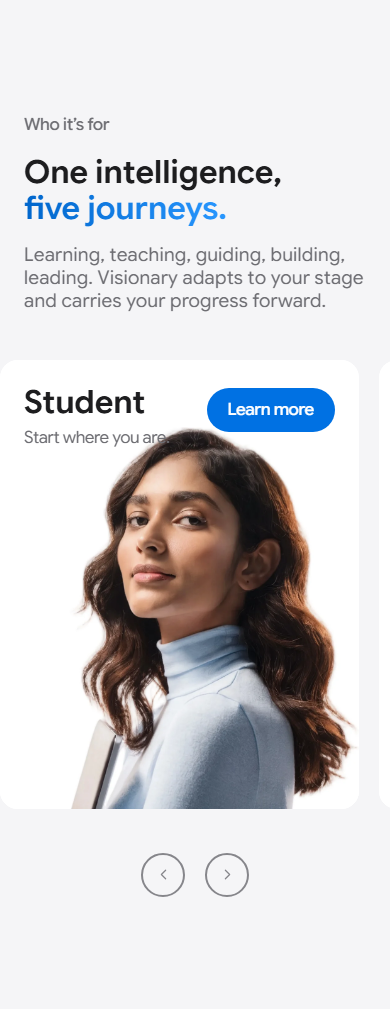
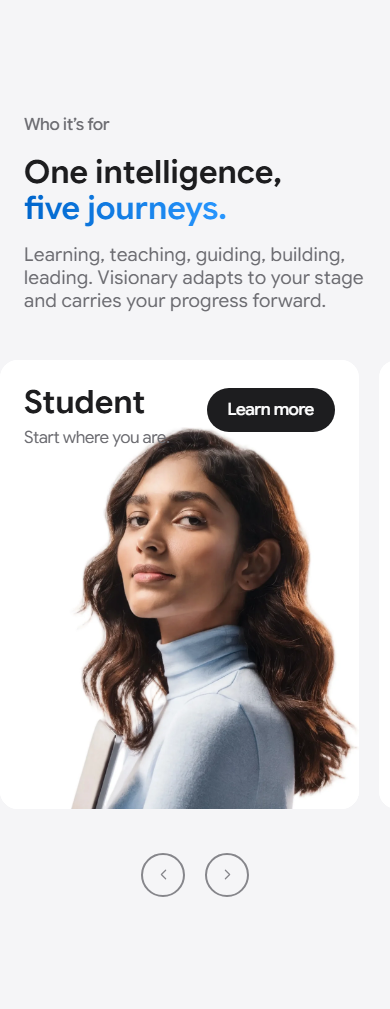
FHE-01 (V10): one flow spine — every chapter shares the same left edge
Founder flow check: the product aligns left in a flow, not randomly.
Measurement found three random left edges — the slider at 24, the
returns at 110, the problem statement at 230. Unified to one 1264px
spine (mx-auto max-w-[1264px] px-6, left 112 at 1440): problem, return,
trust, the explore header, and the Duo slider's first slide all measure
112 (getBoundingClientRect evidence); the slider's next card still
peeks past the spine's right edge.

Also per the font rule and the button system:
- the card name keeps the section tier (56) — the Duo law: the tile's
  name IS the tile's statement; verified computed 56px
- the Learn more pill joins the system's primary colour: ink #1d1d1f,
  hover #272729 — the blue pill was Apple's commerce pill, not our
  button system (our primaries are ink on light grounds)

Verified: quality gate PASS; 871/871 tests after scope refresh; lint
clean.

Changed region(s): [[0.5231, 0.3687, 0.8615, 0.4301]]

diff --git a/visionary-app/frontend/src/components/landing/persona/premium/PremiumExploreSection.jsx b/visionary-app/frontend/src/components/landing/persona/premium/PremiumExploreSection.jsx
@@ -59,7 +59,7 @@ const PremiumExploreCard = React.memo(function PremiumExploreCard({ category, im
           </p>
         </div>
         <span
-          className="mt-1 inline-flex h-11 shrink-0 items-center justify-center rounded-full bg-[#0071e3] px-[21px] text-[17px] font-medium leading-[1.176] tracking-[-0.011em] text-white transition-colors duration-200 hover:bg-[#0077ed] focus-visible:outline-none focus-visible:ring-2 focus-visible:ring-[#0066cc] focus-visible:ring-offset-2 sm:h-9 lg:h-11 lg:text-[18px]"
+          className="mt-1 inline-flex h-11 shrink-0 items-center justify-center rounded-full bg-[#1d1d1f] px-[21px] text-[17px] font-medium leading-[1.176] tracking-[-0.011em] text-white transition-colors duration-200 hover:bg-[#272729] focus-visible:outline-none focus-visible:ring-2 focus-visible:ring-[#0066cc] focus-visible:ring-offset-2 sm:h-9 lg:h-11 lg:text-[18px]"
         >
           Learn more
         </span>
@@ -111,7 +111,7 @@ function PremiumExploreSection({ heading, categories, images, eyebrow, sub, head
     <section ref={ref} data-section="13-explore" className="relative isolate bg-[#f5f5f7] py-16 lg:py-24 [overflow-x:clip] rounded-t-[32px]">
       <ScrollReveal>
         <RevealItem idx={0}>
-          <div className="mx-auto w-full px-6 lg:px-6">
+          <div className="mx-auto w-full max-w-[1264px] px-6">
             {eyebrow && (
               <p className="text-[17px] font-medium" style={{ color: color.slate }}>
                 {eyebrow}
@@ -153,7 +153,7 @@ function PremiumExploreSection({ heading, categories, images, eyebrow, sub, head
               onPointerCancel={onTrackPointerEnd}
               onClickCapture={onTrackClickCapture}
               onDragStart={(e) => e.preventDefault()}
-              className="flex cursor-grab snap-x snap-mandatory gap-5 overflow-x-auto pb-2 pl-6 pr-6 select-none [scrollbar-width:none] active:cursor-grabbing [&::-webkit-scrollbar]:hidden lg:gap-6 lg:scroll-pl-6 lg:pl-6"
+              className="flex cursor-grab snap-x snap-mandatory gap-5 overflow-x-auto pb-2 pl-6 pr-6 select-none [scrollbar-width:none] active:cursor-grabbing [&::-webkit-scrollbar]:hidden lg:gap-6 lg:scroll-pl-[max(24px,calc((100vw-1264px)/2+24px))] lg:pl-[max(24px,calc((100vw-1264px)/2+24px))]"
             >
               {categories.map((c, index) => (
                 <PremiumExploreCard key={c.slug} category={c} image={images[index]} />

diff --git a/visionary-app/frontend/src/pages/Landing.jsx b/visionary-app/frontend/src/pages/Landing.jsx
@@ -232,7 +232,7 @@ function LandingProblemSection() {
     <section ref={ref} data-section="02-problem" className="relative z-10 overflow-hidden bg-[#f5f5f7]" style={{ fontFamily: fontStack }}>
       <Reveal visible={visible}>
         <p className="sr-only">Stories from a student and a professional about the moment understanding breaks down.</p>
-        <div className="public-editorial-frame mx-auto">
+        <div className="mx-auto w-full max-w-[1264px] px-6">
           <p className="text-[17px] font-medium" style={{ color: BRAND.graphite }}>Why Visionary exists</p>
           <h2 key={`h-${index}`} data-type="section" className="hero-fade-up mt-[var(--gap-eyebrow-title-display)] text-balance font-semibold" style={{ color: BRAND.ink, maxWidth: "980px" }}>
             {slide.black} <span className="accent-gradient">{slide.blue}</span>.
@@ -244,7 +244,7 @@ function LandingProblemSection() {
           </p>
         </div>
         <figure className="m-0">
-          <div className="public-editorial-frame mx-auto">
+          <div className="mx-auto w-full max-w-[1264px] px-6">
             {/* the story card — one white object on the grey ground: the
                 subject bleeds on the card’s left field, the voice sits on the
                 right panel. The card is the chapter’s one story unit, so the
@@ -395,7 +395,7 @@ function LandingReturnSection() {
   return (
     <section ref={ref} data-section="04-return" className="relative isolate bg-white [overflow-x:clip]" style={{ fontFamily: fontStack }}>
       <Reveal visible={visible}>
-        <div className="mx-auto w-full max-w-[1400px] px-6 lg:px-[var(--frame-x)]">
+        <div className="mx-auto w-full max-w-[1264px] px-6">
           <p className="text-[17px] font-medium" style={{ color: BRAND.graphite }}>What you get</p>
           <figure className="m-0">
             <blockquote className="mt-[clamp(20px,2.6vw,32px)]">

diff --git a/visionary-app/frontend/src/components/landing/persona/premium/PremiumTrustSection.jsx b/visionary-app/frontend/src/components/landing/persona/premium/PremiumTrustSection.jsx
@@ -21,7 +21,7 @@ function PremiumTrustSection({ heading, sub, values }) {
   return (
     <section ref={ref} data-section="11-trust" className="public-values relative isolate bg-white py-24 lg:py-32 [overflow-x:clip] rounded-t-[32px]">
       <ScrollReveal>
-        <div className="public-editorial-frame mx-auto">
+        <div className="mx-auto w-full max-w-[1264px] px-6">
           <RevealItem idx={0}>
             <h2
               data-type="section"
